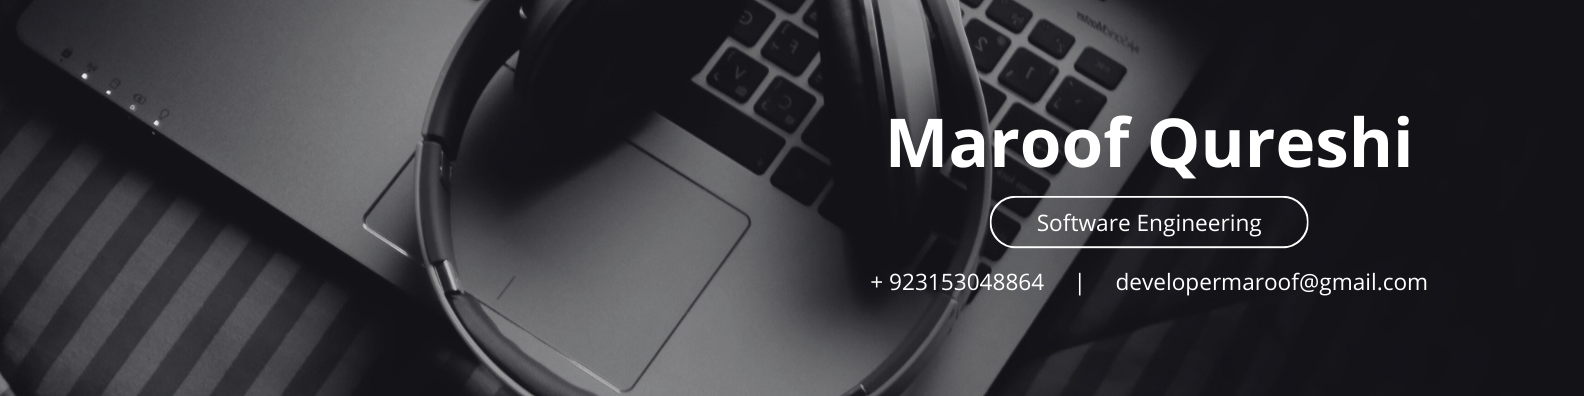
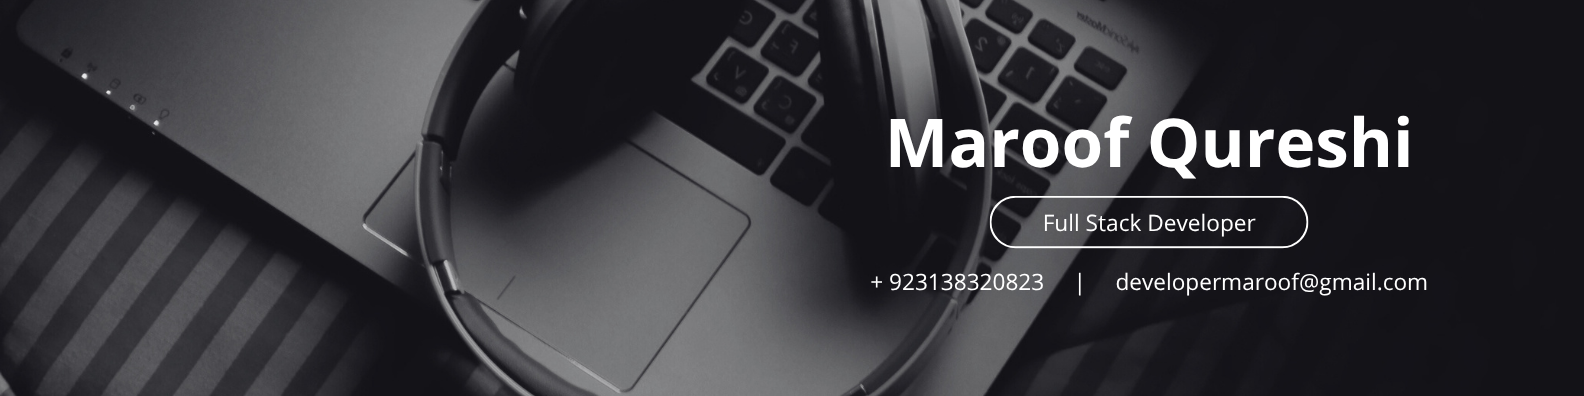
Updated

Changed region(s): [[0.6496, 0.5455, 0.8043, 0.6061], [0.5878, 0.697, 0.6806, 0.7273]]

diff --git a/README.md b/README.md
@@ -222,11 +222,11 @@ const modernTechSkills = [
   <a href="mailto:developermaroof@gmail.com" target="_blank">
     <img src="https://img.shields.io/badge/Gmail-D14836?style=for-the-badge&logo=gmail&logoColor=white" alt="Gmail" />
   </a>
-  <a href="https://wa.me/923153048864" target="_blank">
+  <a href="https://wa.me/923138320823" target="_blank">
     <img src="https://img.shields.io/badge/WhatsApp-25D366?style=for-the-badge&logo=whatsapp&logoColor=white" alt="WhatsApp" />
   </a>
-  <a href="tel:+923153048864" target="_blank">
-    <img src="https://img.shields.io/badge/Call-%2B923153048864-008000?style=for-the-badge&logo=phone&logoColor=white" alt="Phone" />
+  <a href="tel:+923138320823" target="_blank">
+    <img src="https://img.shields.io/badge/Call-%2B923138320823-008000?style=for-the-badge&logo=phone&logoColor=white" alt="Phone" />
   </a>
 </div>
 
@@ -236,7 +236,7 @@ const modernTechSkills = [
 
 - 🌐 Check out my portfolio: [developermaroof.vercel.app](https://developermaroof.vercel.app/)
 - 📧 Email me: **developermaroof@gmail.com**
-- 📱 Call or WhatsApp: **+923153048864**
+- 📱 Call or WhatsApp: **+923138320823**
 
 <div align="center">
   <img src="https://readme-typing-svg.herokuapp.com/?lines=Thank+you+for+visiting!;Let's+connect+and+collaborate!;AI-Powered+Web+Solutions!&center=true&width=380&height=45" alt="Thank You" />
